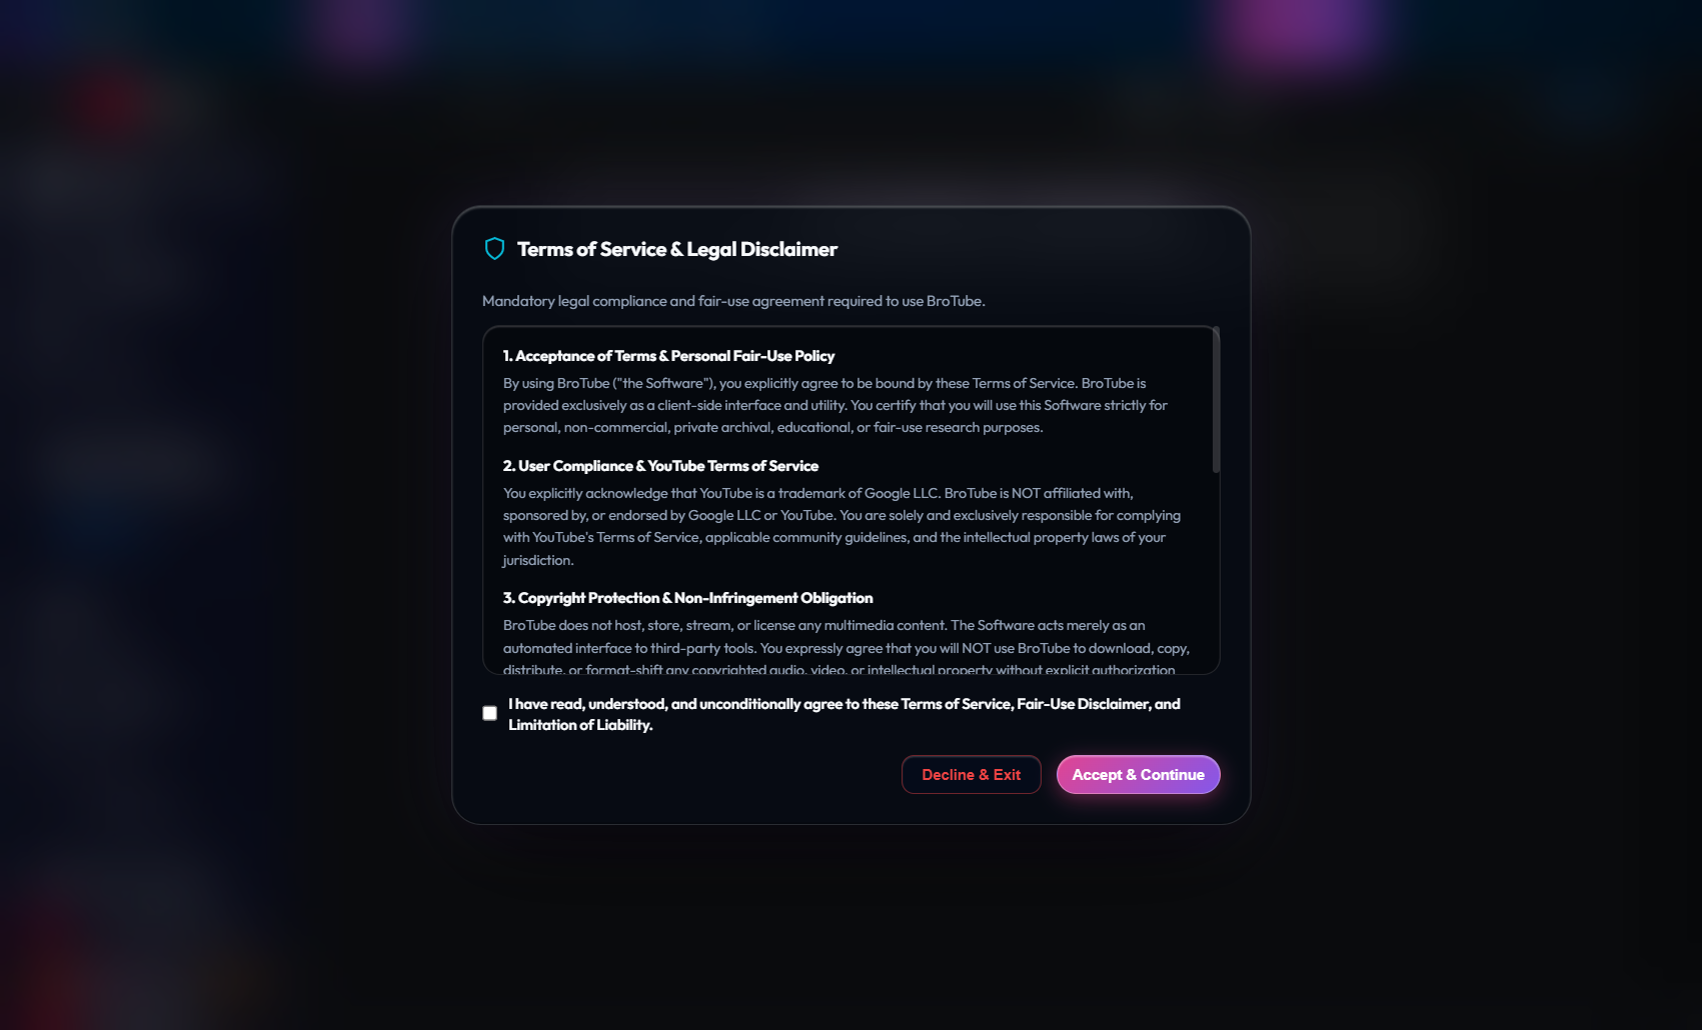
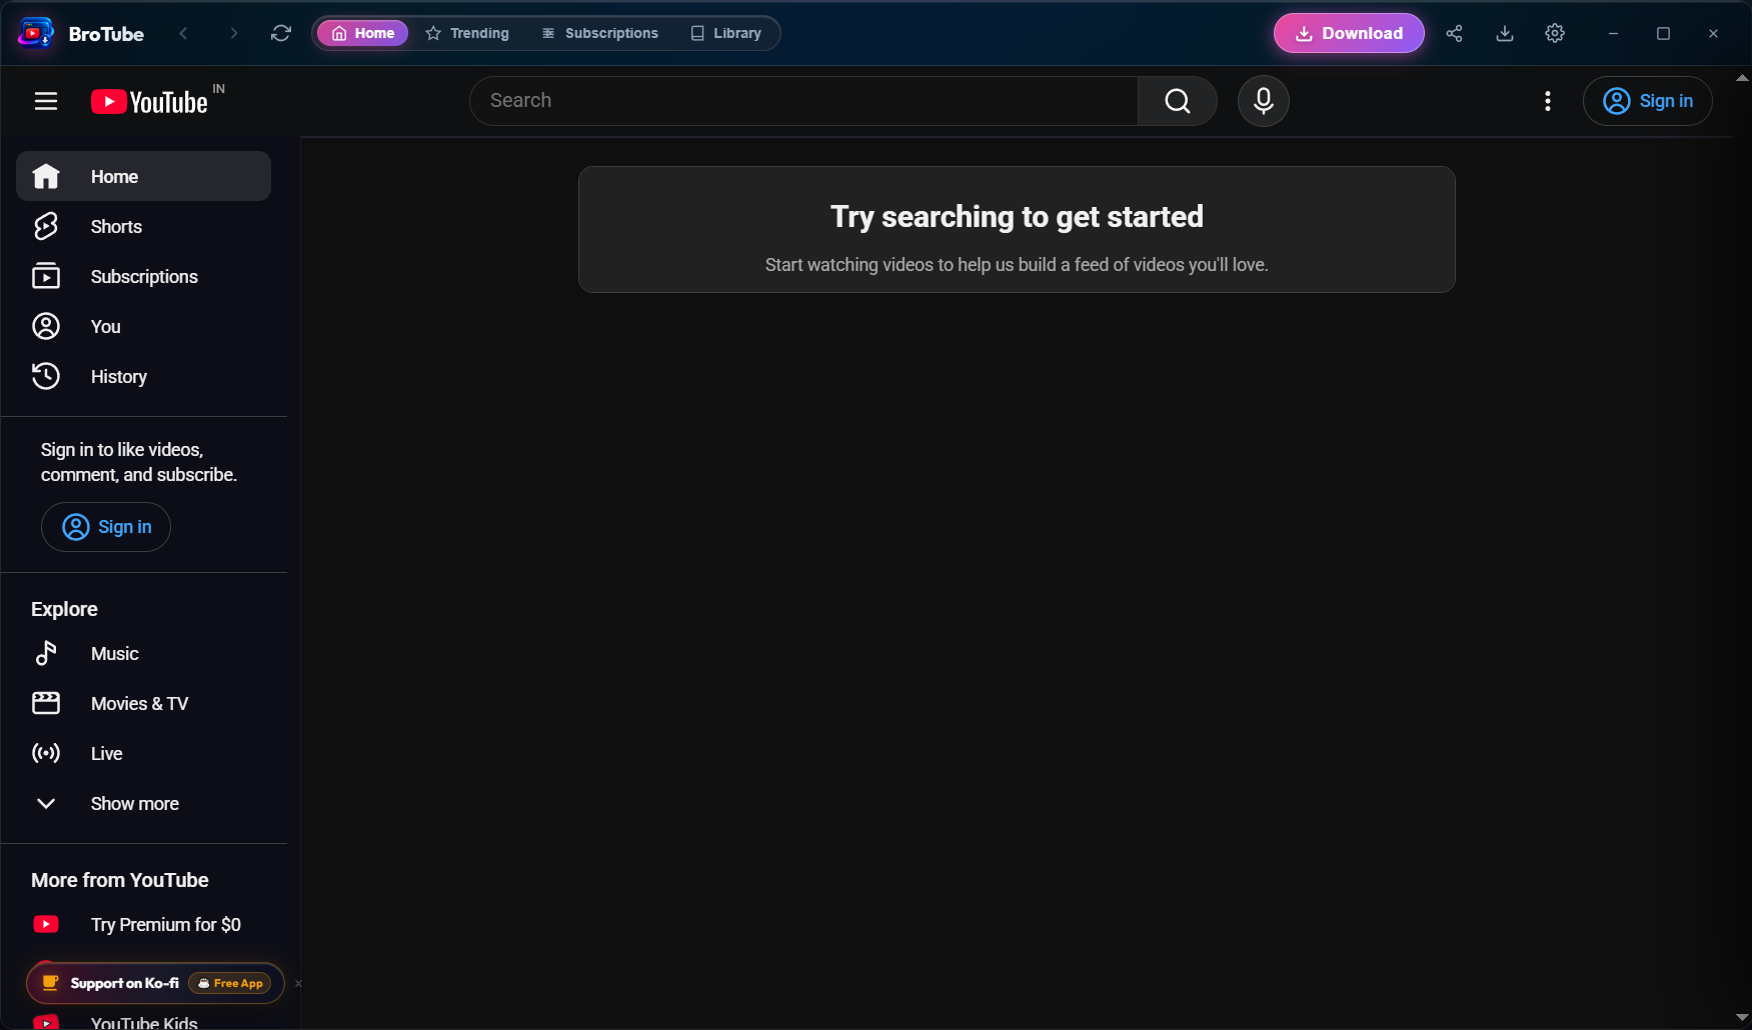
fix(docs): recapture screenshots with EULA dismissed to showcase actual UI features

diff --git a/test/capture-screens.js b/test/capture-screens.js
@@ -1,4 +1,4 @@
-const { app, BrowserWindow, ipcMain } = require('electron');
+const { app, BrowserWindow, ipcMain, session } = require('electron');
 const path = require('path');
 const fs = require('fs');
 
@@ -9,12 +9,21 @@ if (!fs.existsSync(OUT_DIR)) {
 
 app.commandLine.appendSwitch('disable-gpu-sandbox');
 app.commandLine.appendSwitch('disable-gpu-watchdog');
+app.commandLine.appendSwitch('disable-direct-composition-video-overlays');
 
-// IPC mocks
+// Mock all IPC handlers to prevent any console/handler errors
 ipcMain.handle('get-default-download-dir', () => 'C:\\Users\\GAURI\\Videos\\BroTube');
 ipcMain.handle('get-debug-mode', () => false);
+ipcMain.handle('set-debug-mode', () => true);
+ipcMain.handle('get-debug-logs', () => []);
+ipcMain.handle('scan-debug-logs', () => ({ logs: [] }));
+ipcMain.handle('set-theme', () => true);
+ipcMain.handle('set-language', () => true);
 ipcMain.handle('check-active-tasks', () => ({ count: 0 }));
-ipcMain.handle('sync-cookies', () => ({ success: true, count: 18 }));
+ipcMain.handle('sync-cookies', () => ({ success: true, count: 24 }));
+ipcMain.handle('open-external-url', () => true);
+ipcMain.handle('select-download-dir', () => 'C:\\Users\\GAURI\\Videos\\BroTube');
+ipcMain.handle('open-folder', () => true);
 
 async function sleep(ms) {
   return new Promise(resolve => setTimeout(resolve, ms));
@@ -29,8 +38,8 @@ async function capture(win, filename) {
 
 app.whenReady().then(async () => {
   const win = new BrowserWindow({
-    width: 1360,
-    height: 860,
+    width: 1400,
+    height: 880,
     frame: false,
     backgroundColor: '#0c0e17',
     webPreferences: {
@@ -42,32 +51,63 @@ app.whenReady().then(async () => {
     show: true
   });
 
-  win.webContents.on('console-message', (e, level, msg) => {
-    console.log('[Renderer]', msg);
-  });
-
   await win.loadFile(path.join(__dirname, '..', 'src', 'renderer', 'index.html'));
 
-  // 1. Splash Screen
-  console.log('Capturing Splash Screen...');
+  // 1. Capture Splash Screen
+  console.log('Capturing 01-splash-screen.png...');
   await sleep(1000);
   await capture(win, '01-splash-screen.png');
 
-  // Wait for splash fade out
-  console.log('Waiting for splash fade-out...');
-  await sleep(2800);
-
-  // 2. Main Interface
-  console.log('Capturing Main Interface...');
-  await capture(win, '02-main-interface.png');
-
-  // 3. Pro Download Modal
-  console.log('Capturing Download Modal...');
+  // Now dismiss splash screen and ACCEPT EULA permanently!
+  console.log('Dismissing splash screen and dismissing EULA modal...');
   await win.webContents.executeJavaScript(`
     try {
+      localStorage.setItem('brotube_eula_v1_accepted', 'true');
+      const splash = document.getElementById('splash-screen');
+      if (splash) {
+        splash.classList.add('fade-out');
+        splash.style.display = 'none';
+      }
+      const eula = document.getElementById('eula-modal');
+      if (eula) {
+        eula.classList.add('hidden');
+        eula.style.display = 'none';
+      }
+      const kofi = document.getElementById('kofi-modal');
+      if (kofi) kofi.classList.add('hidden');
+    } catch(e) {
+      console.error(e);
+    }
+  `);
+
+  // Allow webview to load YouTube feed
+  console.log('Waiting 5 seconds for YouTube interface to render...');
+  await sleep(5000);
+
+  // Guarantee EULA is completely gone before taking main interface shot
+  await win.webContents.executeJavaScript(`
+    const eula = document.getElementById('eula-modal');
+    if (eula) {
+      eula.classList.add('hidden');
+      eula.style.display = 'none';
+    }
+  `);
+
+  // 2. Capture Main Interface
+  console.log('Capturing 02-main-interface.png...');
+  await capture(win, '02-main-interface.png');
+
+  // 3. Configure and Capture Pro Download Modal
+  console.log('Triggering and capturing 03-download-modal.png...');
+  await win.webContents.executeJavaScript(`
+    try {
+      const eula = document.getElementById('eula-modal');
+      if (eula) { eula.classList.add('hidden'); eula.style.display = 'none'; }
+
       const modal = document.getElementById('pro-modal');
       const modalLoading = document.getElementById('modal-loading');
       const modalContent = document.getElementById('modal-content');
+      const previewThumb = document.getElementById('preview-thumb');
       const previewTitle = document.getElementById('preview-title');
       const previewChannel = document.getElementById('preview-channel');
       const previewDuration = document.getElementById('preview-duration');
@@ -75,38 +115,49 @@ app.whenReady().then(async () => {
       if (modal && modalContent) {
         if (modalLoading) modalLoading.classList.add('hidden');
         modalContent.classList.remove('hidden');
-        if (previewTitle) previewTitle.textContent = 'Cyberpunk 2077 - Official 8K Ultra HDR Showcase Gameplay';
-        if (previewChannel) previewChannel.textContent = 'CD PROJEKT RED • 4.2M views';
+        if (previewTitle) previewTitle.textContent = 'Cyberpunk 2077 - Official 8K Ultra HDR Next-Gen Gameplay';
+        if (previewChannel) previewChannel.textContent = 'CD PROJEKT RED • 4.8M views';
         if (previewDuration) previewDuration.textContent = '14m 28s';
+        if (previewThumb) {
+          previewThumb.src = 'assets/installerSplash.bmp';
+          previewThumb.style.display = 'block';
+        }
         modal.classList.remove('hidden');
       }
-    } catch (e) {
+    } catch(e) {
       console.error(e);
     }
   `);
   await sleep(800);
   await capture(win, '03-download-modal.png');
 
-  // Reset Modal
+  // Close Download Modal
   await win.webContents.executeJavaScript(`
     try {
       const modal = document.getElementById('pro-modal');
       if (modal) modal.classList.add('hidden');
-    } catch (e) {}
+    } catch(e) {}
   `);
   await sleep(400);
 
-  // 4. Settings Popover & Audio DSP
-  console.log('Capturing Settings Popover (Audio DSP)...');
+  // 4. Capture Settings Popover (Audio DSP)
+  console.log('Capturing 04-audio-dsp-settings.png...');
   await win.webContents.executeJavaScript(`
     try {
-      const btn = document.getElementById('btn-settings-toggle');
-      if (btn) btn.click();
-      setTimeout(() => {
+      const eula = document.getElementById('eula-modal');
+      if (eula) { eula.classList.add('hidden'); eula.style.display = 'none'; }
+
+      const pop = document.getElementById('settings-popover');
+      if (pop) {
+        pop.classList.remove('hidden');
+        document.querySelectorAll('.settings-nav-tab').forEach(t => t.classList.remove('active'));
+        document.querySelectorAll('.settings-tab-panel').forEach(p => p.classList.remove('active'));
         const audioTab = document.querySelector('.settings-nav-tab[data-tab="audio"]');
-        if (audioTab) audioTab.click();
-      }, 100);
-    } catch (e) {
+        const audioPanel = document.getElementById('settings-panel-audio');
+        if (audioTab) audioTab.classList.add('active');
+        if (audioPanel) audioPanel.classList.add('active');
+      }
+    } catch(e) {
       console.error(e);
     }
   `);
@@ -118,58 +169,65 @@ app.whenReady().then(async () => {
     try {
       const pop = document.getElementById('settings-popover');
       if (pop) pop.classList.add('hidden');
-    } catch (e) {}
+    } catch(e) {}
   `);
   await sleep(400);
 
-  // 5. Downloads Hub Drawer
-  console.log('Capturing Downloads Hub Drawer...');
+  // 5. Capture Downloads Hub Drawer
+  console.log('Capturing 05-downloads-hub.png...');
   await win.webContents.executeJavaScript(`
     try {
-      const drawerBtn = document.getElementById('btn-drawer-toggle');
-      if (drawerBtn) drawerBtn.click();
+      const eula = document.getElementById('eula-modal');
+      if (eula) { eula.classList.add('hidden'); eula.style.display = 'none'; }
+
+      const drawer = document.getElementById('download-drawer');
+      const backdrop = document.getElementById('drawer-backdrop');
       const list = document.getElementById('drawer-downloads-list');
-      if (list) {
-        list.innerHTML = \`
-          <div class="dl-item active">
-            <div class="dl-item-thumb">
-              <img src="assets/installerSplash.bmp" alt="Thumb" style="width:100%;height:100%;object-fit:cover;border-radius:6px;">
-            </div>
-            <div class="dl-item-info">
-              <div class="dl-item-title">Hans Zimmer - Interstellar Main Theme (Live in Prague 4K)</div>
-              <div class="dl-item-meta">
-                <span class="dl-badge-quality">2160p 4K HDR</span>
-                <span class="dl-speed">14.8 MB/s</span>
-                <span class="dl-eta">ETA: 00:32</span>
+      if (drawer) {
+        drawer.classList.remove('closed');
+        if (backdrop) backdrop.classList.remove('hidden');
+        if (list) {
+          list.innerHTML = \`
+            <div class="dl-item active">
+              <div class="dl-item-thumb">
+                <img src="assets/installerSplash.bmp" alt="Thumb" style="width:100%;height:100%;object-fit:cover;border-radius:6px;">
               </div>
-              <div class="dl-progress-bar">
-                <div class="dl-progress-fill" style="width: 68%;"></div>
-              </div>
-            </div>
-          </div>
-          <div class="dl-item completed">
-            <div class="dl-item-thumb">
-              <img src="assets/installerSidebar.bmp" alt="Thumb" style="width:100%;height:100%;object-fit:cover;border-radius:6px;">
-            </div>
-            <div class="dl-item-info">
-              <div class="dl-item-title">Pink Floyd - Comfortably Numb (Pulse 1994 Remastered)</div>
-              <div class="dl-item-meta">
-                <span class="dl-badge-quality">Lossless FLAC</span>
-                <span class="dl-size">82.4 MB</span>
-                <span class="dl-status-done">Completed</span>
+              <div class="dl-item-info">
+                <div class="dl-item-title">Hans Zimmer - Interstellar Live in Prague (Official 4K HDR)</div>
+                <div class="dl-item-meta">
+                  <span class="dl-badge-quality">2160p 4K HDR</span>
+                  <span class="dl-speed" style="color:#06b6d4;">⚡ 18.4 MB/s</span>
+                  <span class="dl-eta">ETA: 00:24</span>
+                </div>
+                <div class="dl-progress-bar" style="margin-top:6px;">
+                  <div class="dl-progress-fill" style="width: 74%; background: linear-gradient(90deg, #ec4899, #8b5cf6);"></div>
+                </div>
               </div>
             </div>
-          </div>
-        \`;
+            <div class="dl-item completed">
+              <div class="dl-item-thumb">
+                <img src="assets/installerSidebar.bmp" alt="Thumb" style="width:100%;height:100%;object-fit:cover;border-radius:6px;">
+              </div>
+              <div class="dl-item-info">
+                <div class="dl-item-title">Pink Floyd - Comfortably Numb (Pulse 1994 Remastered)</div>
+                <div class="dl-item-meta">
+                  <span class="dl-badge-quality" style="background:rgba(16,185,129,0.2);color:#34d399;">Lossless FLAC</span>
+                  <span class="dl-size">84.2 MB</span>
+                  <span class="dl-status-done" style="color:#34d399;font-weight:600;">✓ Completed</span>
+                </div>
+              </div>
+            </div>
+          \`;
+        }
       }
-    } catch (e) {
+    } catch(e) {
       console.error(e);
     }
   `);
   await sleep(800);
   await capture(win, '05-downloads-hub.png');
 
-  console.log('All screenshots captured successfully!');
+  console.log('All 5 screenshots recaptured without EULA!');
   win.destroy();
   app.quit();
   process.exit(0);
